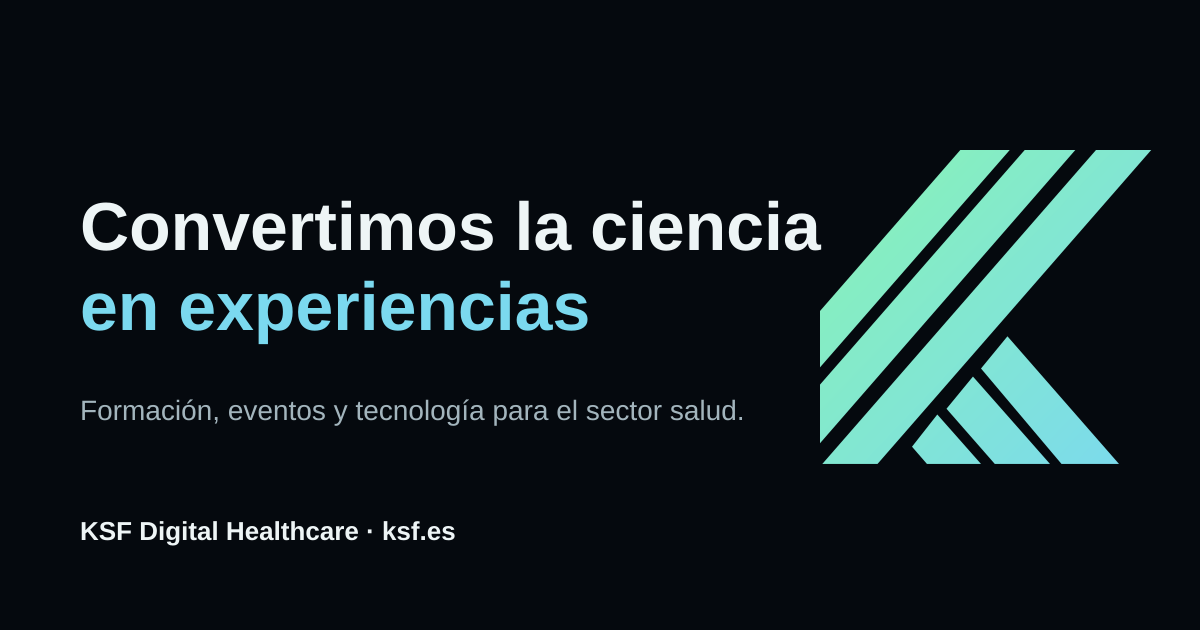
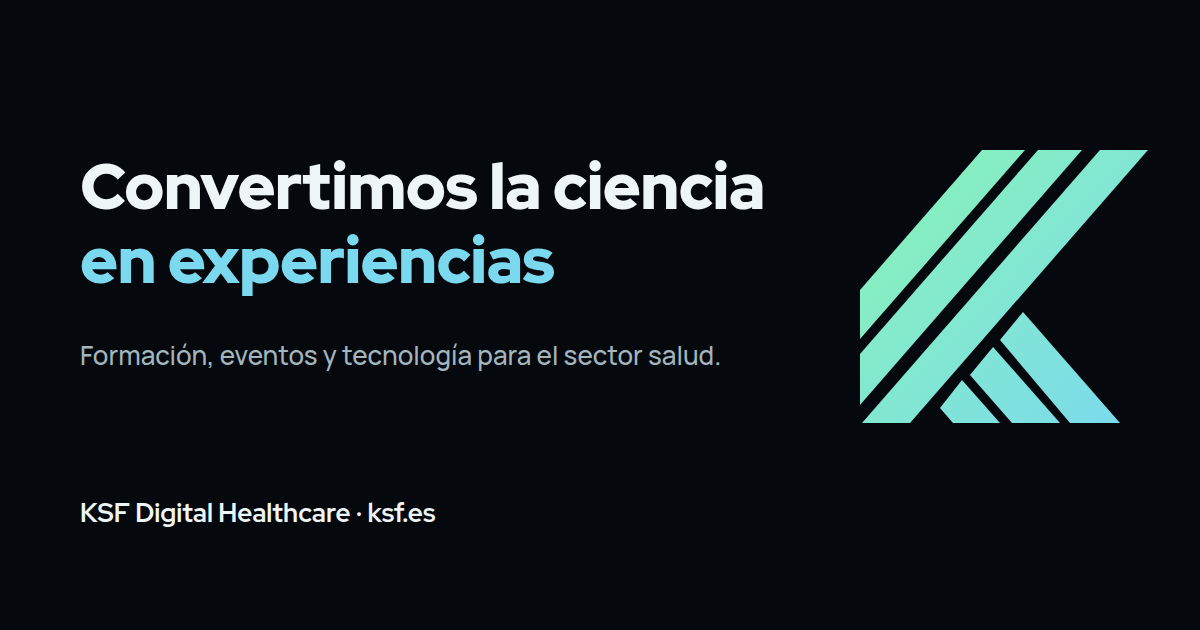
Canonical sin .html, og.png con fuentes de marca y test del menú móvil sin JavaScript
Claude-Session: https://claude.ai/code/session_01Up4p9apHaRG1pnD4V2cgxg

diff --git a/scripts/og.ts b/scripts/og.ts
@@ -1,9 +1,41 @@
-import sharp from 'sharp';
-const k = `<g transform="translate(820,150) scale(1.15)"><defs><linearGradient id="g" gradientUnits="userSpaceOnUse" x1="0" y1="0" x2="290" y2="275"><stop offset="0" stop-color="#89F4B4"/><stop offset="1" stop-color="#7BD9EF"/></linearGradient></defs><g fill="url(#g)"><polygon points="0,140 122,0 165,0 0,189"/><polygon points="0,204 178,0 222,0 0,255"/><polygon points="240,0 288,0 50,273 2,273"/><polygon points="140,190 163,162 260,273 210,273"/><polygon points="110,225 133,197 200,273 152,273"/><polygon points="80,258 102,230 140,273 93,273"/></g></g>`;
-const svg = `<svg xmlns="http://www.w3.org/2000/svg" width="1200" height="630"><rect width="1200" height="630" fill="#05090E"/>${k}
-<text x="80" y="250" font-family="Arial, Helvetica, sans-serif" font-weight="900" font-size="68" fill="#EEF5F6">Convertimos la ciencia</text>
-<text x="80" y="330" font-family="Arial, Helvetica, sans-serif" font-weight="900" font-size="68" fill="#7BD9EF">en experiencias</text>
-<text x="80" y="420" font-family="Arial, Helvetica, sans-serif" font-size="28" fill="#A3B5BD">Formación, eventos y tecnología para el sector salud.</text>
-<text x="80" y="540" font-family="Arial, Helvetica, sans-serif" font-weight="700" font-size="26" fill="#EEF5F6">KSF Digital Healthcare · ksf.es</text></svg>`;
-await sharp(Buffer.from(svg)).png().toFile('public/og.png');
-console.log('public/og.png generado');
+// Genera public/og.png (1200x630) con las fuentes de marca embebidas (Fontsource, base64),
+// renderizando con Chromium para no depender de las fuentes instaladas en la máquina.
+import { existsSync, readFileSync } from 'node:fs';
+import { chromium } from '@playwright/test';
+
+const fuente = (paquete: string, fichero: string) =>
+  readFileSync(new URL(`../node_modules/${paquete}/files/${fichero}`, import.meta.url)).toString('base64');
+const redHat = fuente('@fontsource-variable/red-hat-display', 'red-hat-display-latin-wght-normal.woff2');
+const manrope = fuente('@fontsource-variable/manrope', 'manrope-latin-wght-normal.woff2');
+
+const html = `<!doctype html><html><head><meta charset="utf-8"><style>
+@font-face{font-family:'Red Hat Display';font-weight:300 900;src:url(data:font/woff2;base64,${redHat}) format('woff2')}
+@font-face{font-family:'Manrope';font-weight:200 800;src:url(data:font/woff2;base64,${manrope}) format('woff2')}
+*{margin:0;box-sizing:border-box}
+body{width:1200px;height:630px;background:#05090E;position:relative;overflow:hidden;color:#EEF5F6}
+.t{position:absolute;left:80px;top:150px;width:700px}
+h1{font:900 64px/1.15 'Red Hat Display';letter-spacing:-.01em}
+h1 span{color:#7BD9EF}
+p.s{margin-top:40px;font:500 26px/1.4 'Manrope';color:#A3B5BD;width:740px}
+p.f{position:absolute;left:80px;top:500px;font:700 26px/1 'Red Hat Display'}
+svg{position:absolute;left:860px;top:150px}
+</style></head><body>
+<div class="t"><h1>Convertimos la ciencia<br><span>en experiencias</span></h1><p class="s">Formación, eventos y tecnología para el sector salud.</p></div>
+<p class="f">KSF Digital Healthcare · ksf.es</p>
+<svg width="290" height="275" viewBox="0 0 290 275"><defs><linearGradient id="g" gradientUnits="userSpaceOnUse" x1="0" y1="0" x2="290" y2="275"><stop offset="0" stop-color="#89F4B4"/><stop offset="1" stop-color="#7BD9EF"/></linearGradient></defs><g fill="url(#g)"><polygon points="0,140 122,0 165,0 0,189"/><polygon points="0,204 178,0 222,0 0,255"/><polygon points="240,0 288,0 50,273 2,273"/><polygon points="140,190 163,162 260,273 210,273"/><polygon points="110,225 133,197 200,273 152,273"/><polygon points="80,258 102,230 140,273 93,273"/></g></svg>
+</body></html>`;
+
+const ejecutable = existsSync('/opt/pw-browsers/chromium') ? '/opt/pw-browsers/chromium' : undefined;
+const navegador = await chromium.launch({ executablePath: ejecutable });
+const page = await navegador.newPage({ viewport: { width: 1200, height: 630 } });
+await page.setContent(html);
+await page.evaluate(() => document.fonts.ready);
+// Margen mínimo de 48 px entre el texto del titular y la K.
+const derecha = await page.evaluate(() => {
+  const r = document.createRange(); r.selectNodeContents(document.querySelector('h1')!);
+  return Math.max(...[...r.getClientRects()].map((c) => c.right));
+});
+if (860 - derecha < 48) throw new Error(`El titular queda a ${Math.round(860 - derecha)} px de la K (mínimo 48)`);
+await page.screenshot({ path: 'public/og.png' });
+await navegador.close();
+console.log(`public/og.png generado (margen titular-K: ${Math.round(860 - derecha)} px)`);

diff --git a/tests/e2e/calidad.spec.ts b/tests/e2e/calidad.spec.ts
@@ -51,6 +51,20 @@ test('/404: noindex, sin desbordamiento y sin fallos graves de accesibilidad', a
   expect(r.violations.filter((v) => v.impact === 'critical' || v.impact === 'serious').map((v) => v.id)).toEqual([]);
 });
 
+test('canonical y og:url: sin .html ni barra final y presentes en el sitemap', async ({ page, request }) => {
+  const xml = await (await request.get('/sitemap-0.xml')).text();
+  const urls = [...xml.matchAll(/<loc>([^<]+)<\/loc>/g)].map((m) => m[1]);
+  for (const path of PAGINAS) {
+    await page.goto(path);
+    const canonical = await page.locator('link[rel="canonical"]').getAttribute('href');
+    const ogUrl = await page.locator('meta[property="og:url"]').getAttribute('content');
+    expect(canonical, path).not.toContain('.html');
+    if (canonical !== 'https://ksf.es/') expect(canonical, path).not.toMatch(/\/$/);
+    expect(ogUrl, path).toBe(canonical);
+    expect(urls, path).toContain(canonical);
+  }
+});
+
 test('sin errores de consola en la home ni en /contacto', async ({ page }) => {
   const errores: string[] = [];
   page.on('pageerror', (e) => errores.push(e.message));
@@ -73,6 +87,19 @@ test.describe('sin JavaScript', () => {
     await expect(page.locator('form')).toBeVisible();
     await page.goto('/servicios/formacion');
     await expect(page.locator('h1')).toBeVisible();
+  });
+});
+
+test.describe('menú móvil sin JavaScript', () => {
+  test.use({ javaScriptEnabled: false });
+  test('el <details> se abre y los enlaces son visibles', async ({ page }, info) => {
+    test.skip(info.project.name !== 'mobile', 'solo móvil');
+    await page.goto('/');
+    await page.getByText('Menú').click();
+    const nav = page.getByRole('navigation', { name: 'Principal móvil' });
+    await expect(nav.getByRole('link', { name: 'Nosotros' })).toBeVisible();
+    await nav.getByRole('link', { name: 'Nosotros' }).click();
+    await expect(page).toHaveURL(/\/nosotros$/);
   });
 });
 
